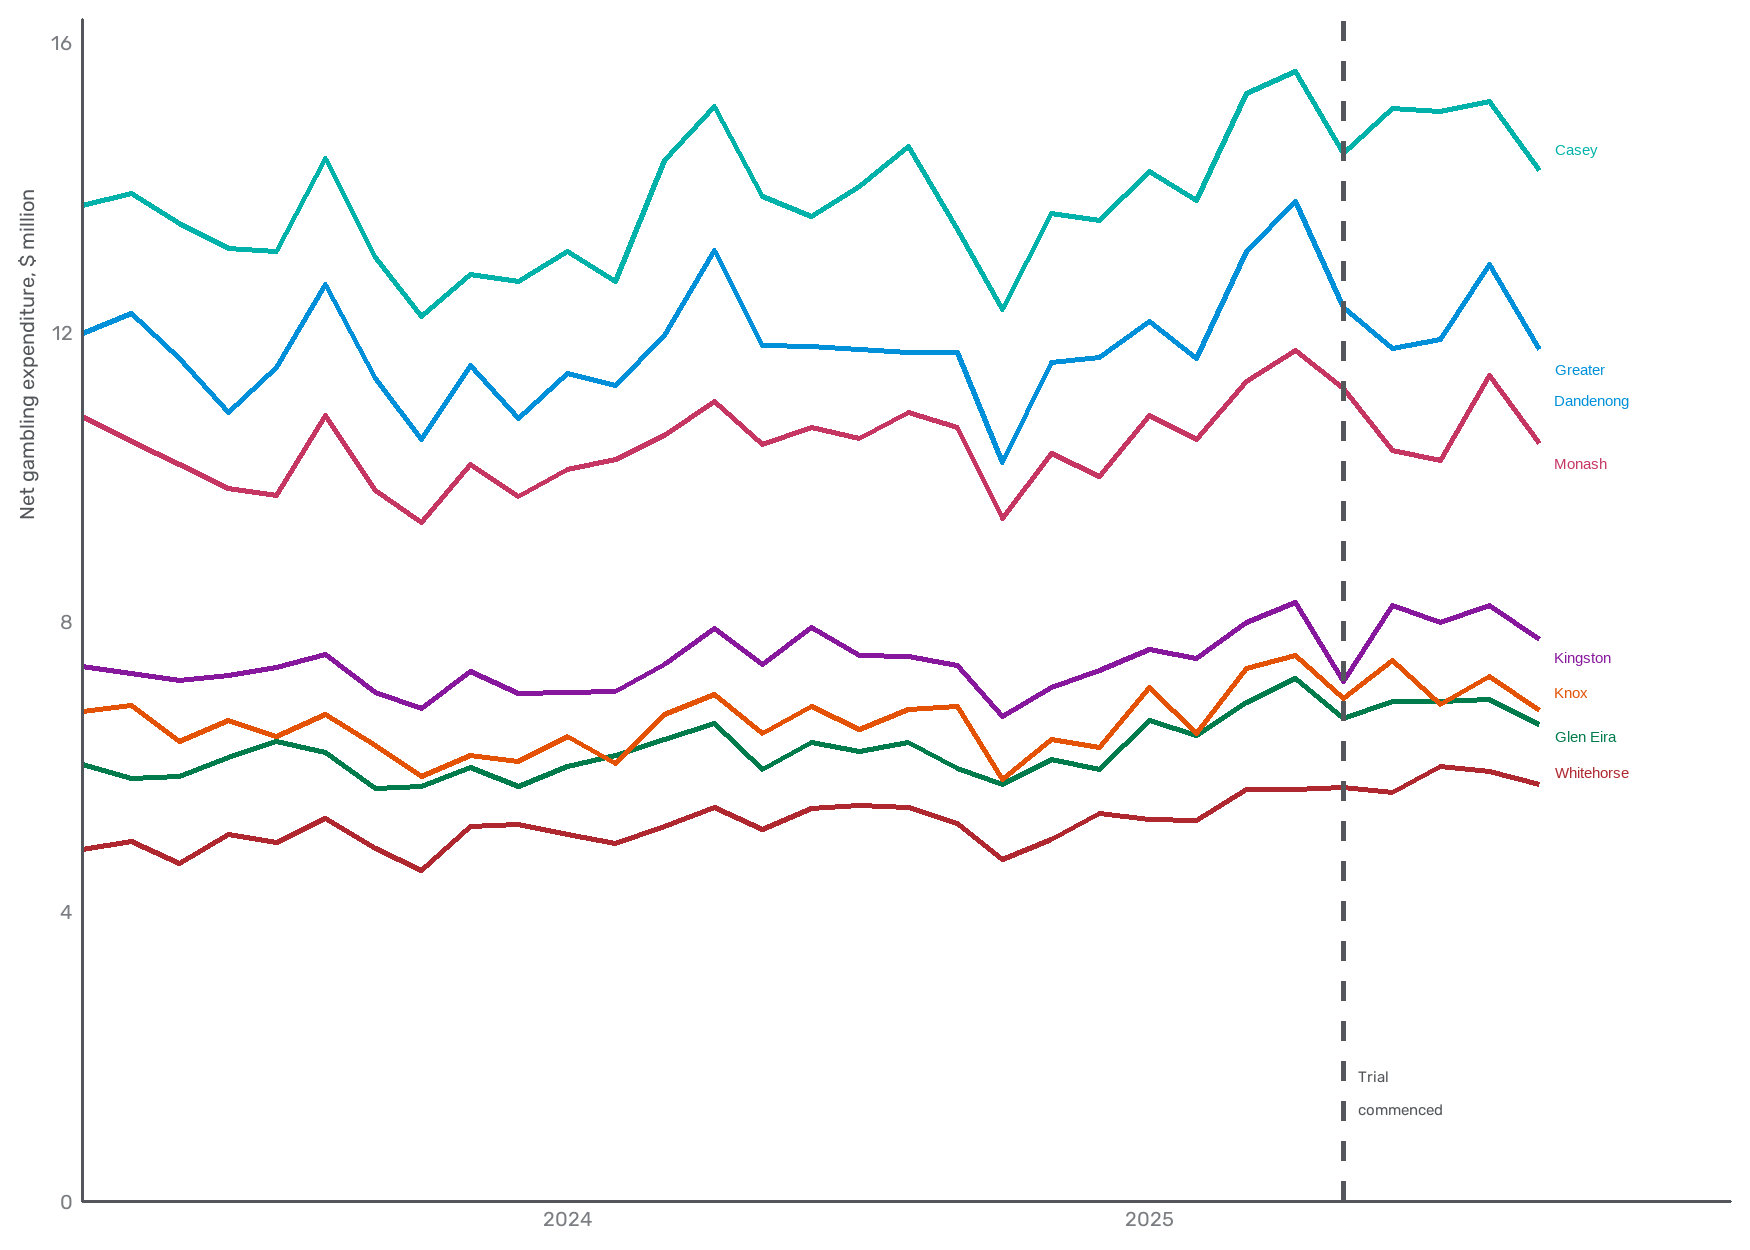
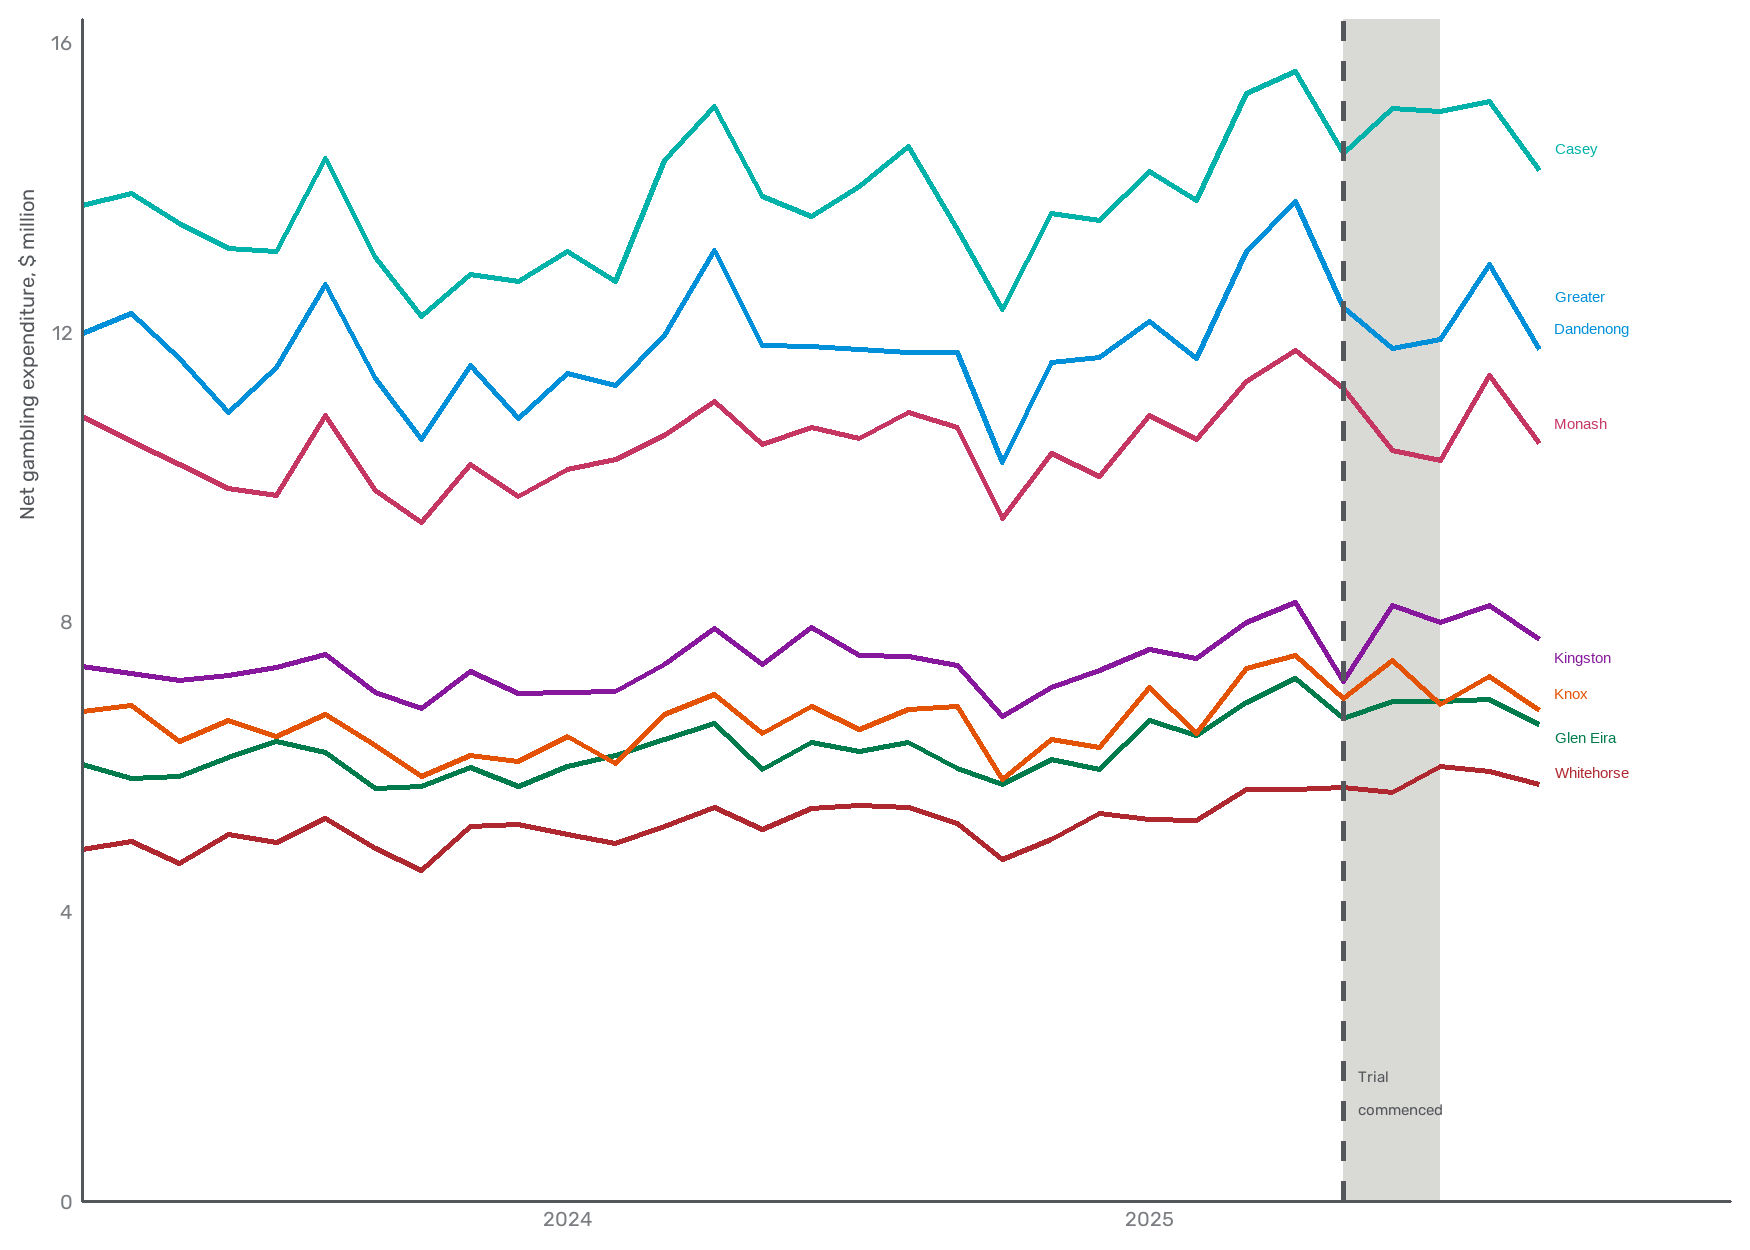
Add rect to plots

Changed region(s): [[0.7406, 0.0, 0.8331, 0.9672], [0.8949, 0.312, 0.9257, 0.3432], [0.8949, 0.2496, 0.9257, 0.2808]]

diff --git a/README.md b/README.md
@@ -97,27 +97,11 @@ lga_data = vcglR::egm_lga_data
 dplyr::glimpse(lga_data)
 #> Rows: 8,100
 #> Columns: 5
-<<<<<<< HEAD
 #> $ lga_name       <chr> "Alpine", "Alpine", "Alpine", "Alpine", "Alpine", "Alpi…
 #> $ financial_year <date> 2019-06-30, 2019-06-30, 2019-06-30, 2019-06-30, 2019-0…
 #> $ data_month     <date> 2018-08-01, 2018-09-01, 2018-10-01, 2018-11-01, 2018-1…
 #> $ measure_type   <chr> "Expenditure", "Expenditure", "Expenditure", "Expenditu…
 #> $ value          <dbl> 224281.3, 156538.2, 202779.0, 173965.4, 179321.2, 18943…
-=======
-<<<<<<< HEAD
-#> $ lga_name       <chr> "Alpine", "Alpine", "Alpine", "Alpine", "Alpine", "Alpi…
-#> $ financial_year <date> 2019-06-30, 2019-06-30, 2019-06-30, 2019-06-30, 2019-0…
-#> $ data_month     <date> 2018-07-31, 2018-08-31, 2018-09-30, 2018-10-31, 2018-1…
-#> $ measure_type   <chr> "Expenditure", "Expenditure", "Expenditure", "Expenditu…
-#> $ value          <dbl> 224281.3, 156538.2, 202779.0, 173965.4, 179321.2, 18943…
-=======
-#> $ lga_name       <chr> "Alpine", "Alpine", "Alpine", "Alpine", …
-#> $ financial_year <date> 2019-06-30, 2019-06-30, 2019-06-30, 201…
-#> $ data_month     <date> 2018-08-01, 2018-09-01, 2018-10-01, 201…
-#> $ measure_type   <chr> "Expenditure", "Expenditure", "Expenditu…
-#> $ value          <dbl> 224281, 156538, 202779, 173965, 179321, …
->>>>>>> 96cd0741711ad4b60f86fcde661e1dee365789fd
->>>>>>> 62d6a22fc9d2ffc05cc71f0cb9a73daca4a94a48
 ```
 
 Cleaning consists of:
@@ -135,8 +119,8 @@ Cleaning consists of:
 
 ## Last updated
 
-Last update ond 10 March 2026. Annual data is up to the 2024-25
-financial year and monthly data is up to January 2026.
+Last update on 10 March 2026. Annual data is up to the 2024-25 financial
+year and monthly data is up to January 2026.
 
 ## Possible analysis
 
